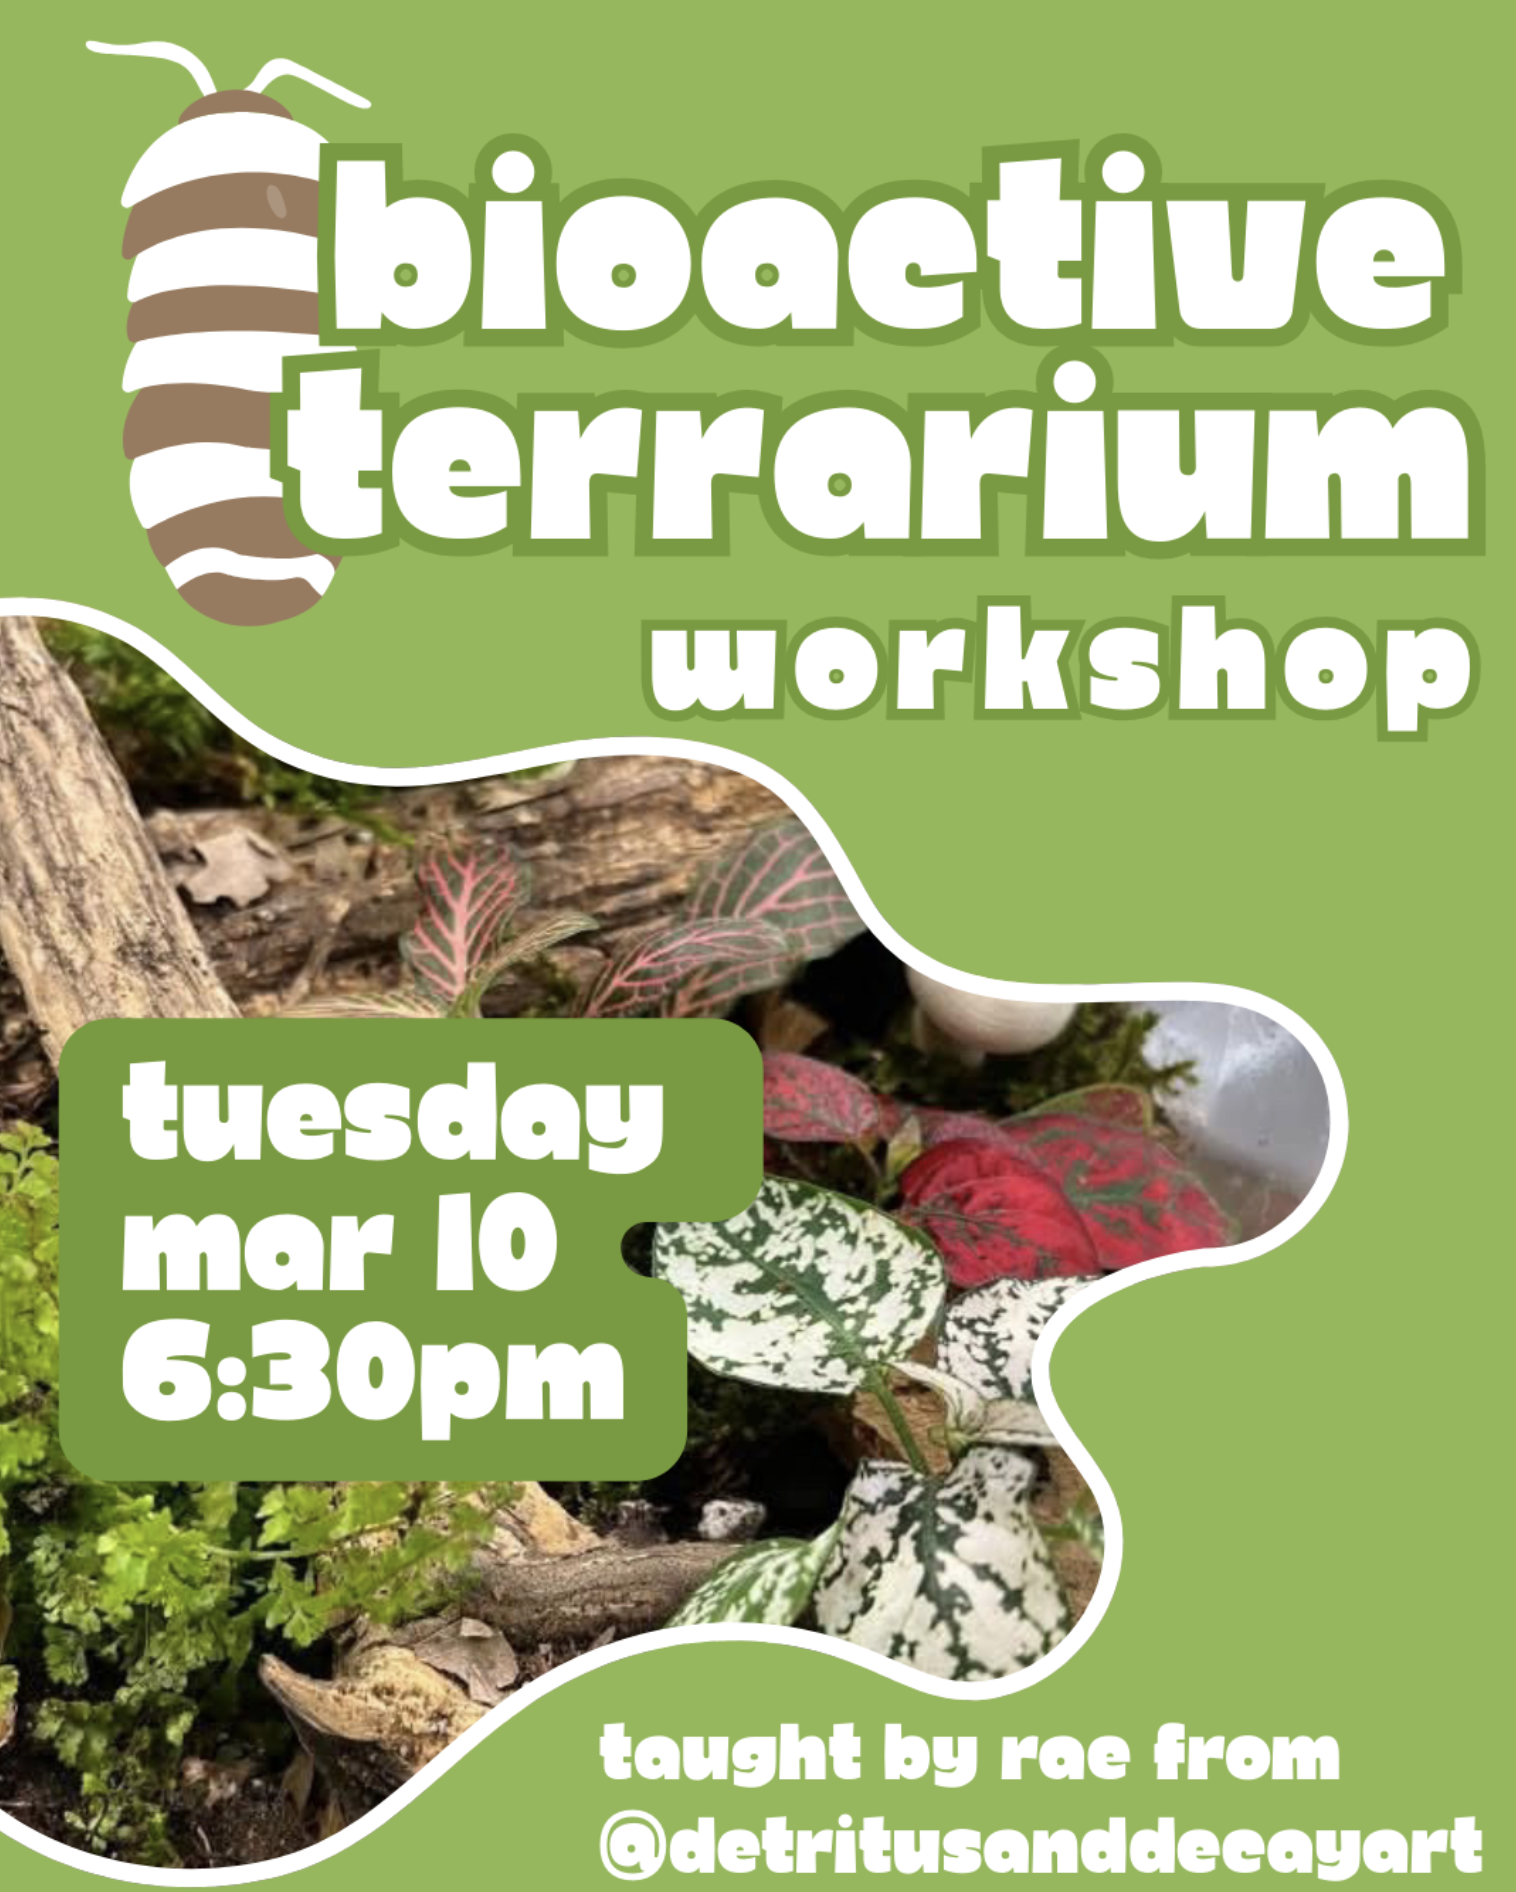
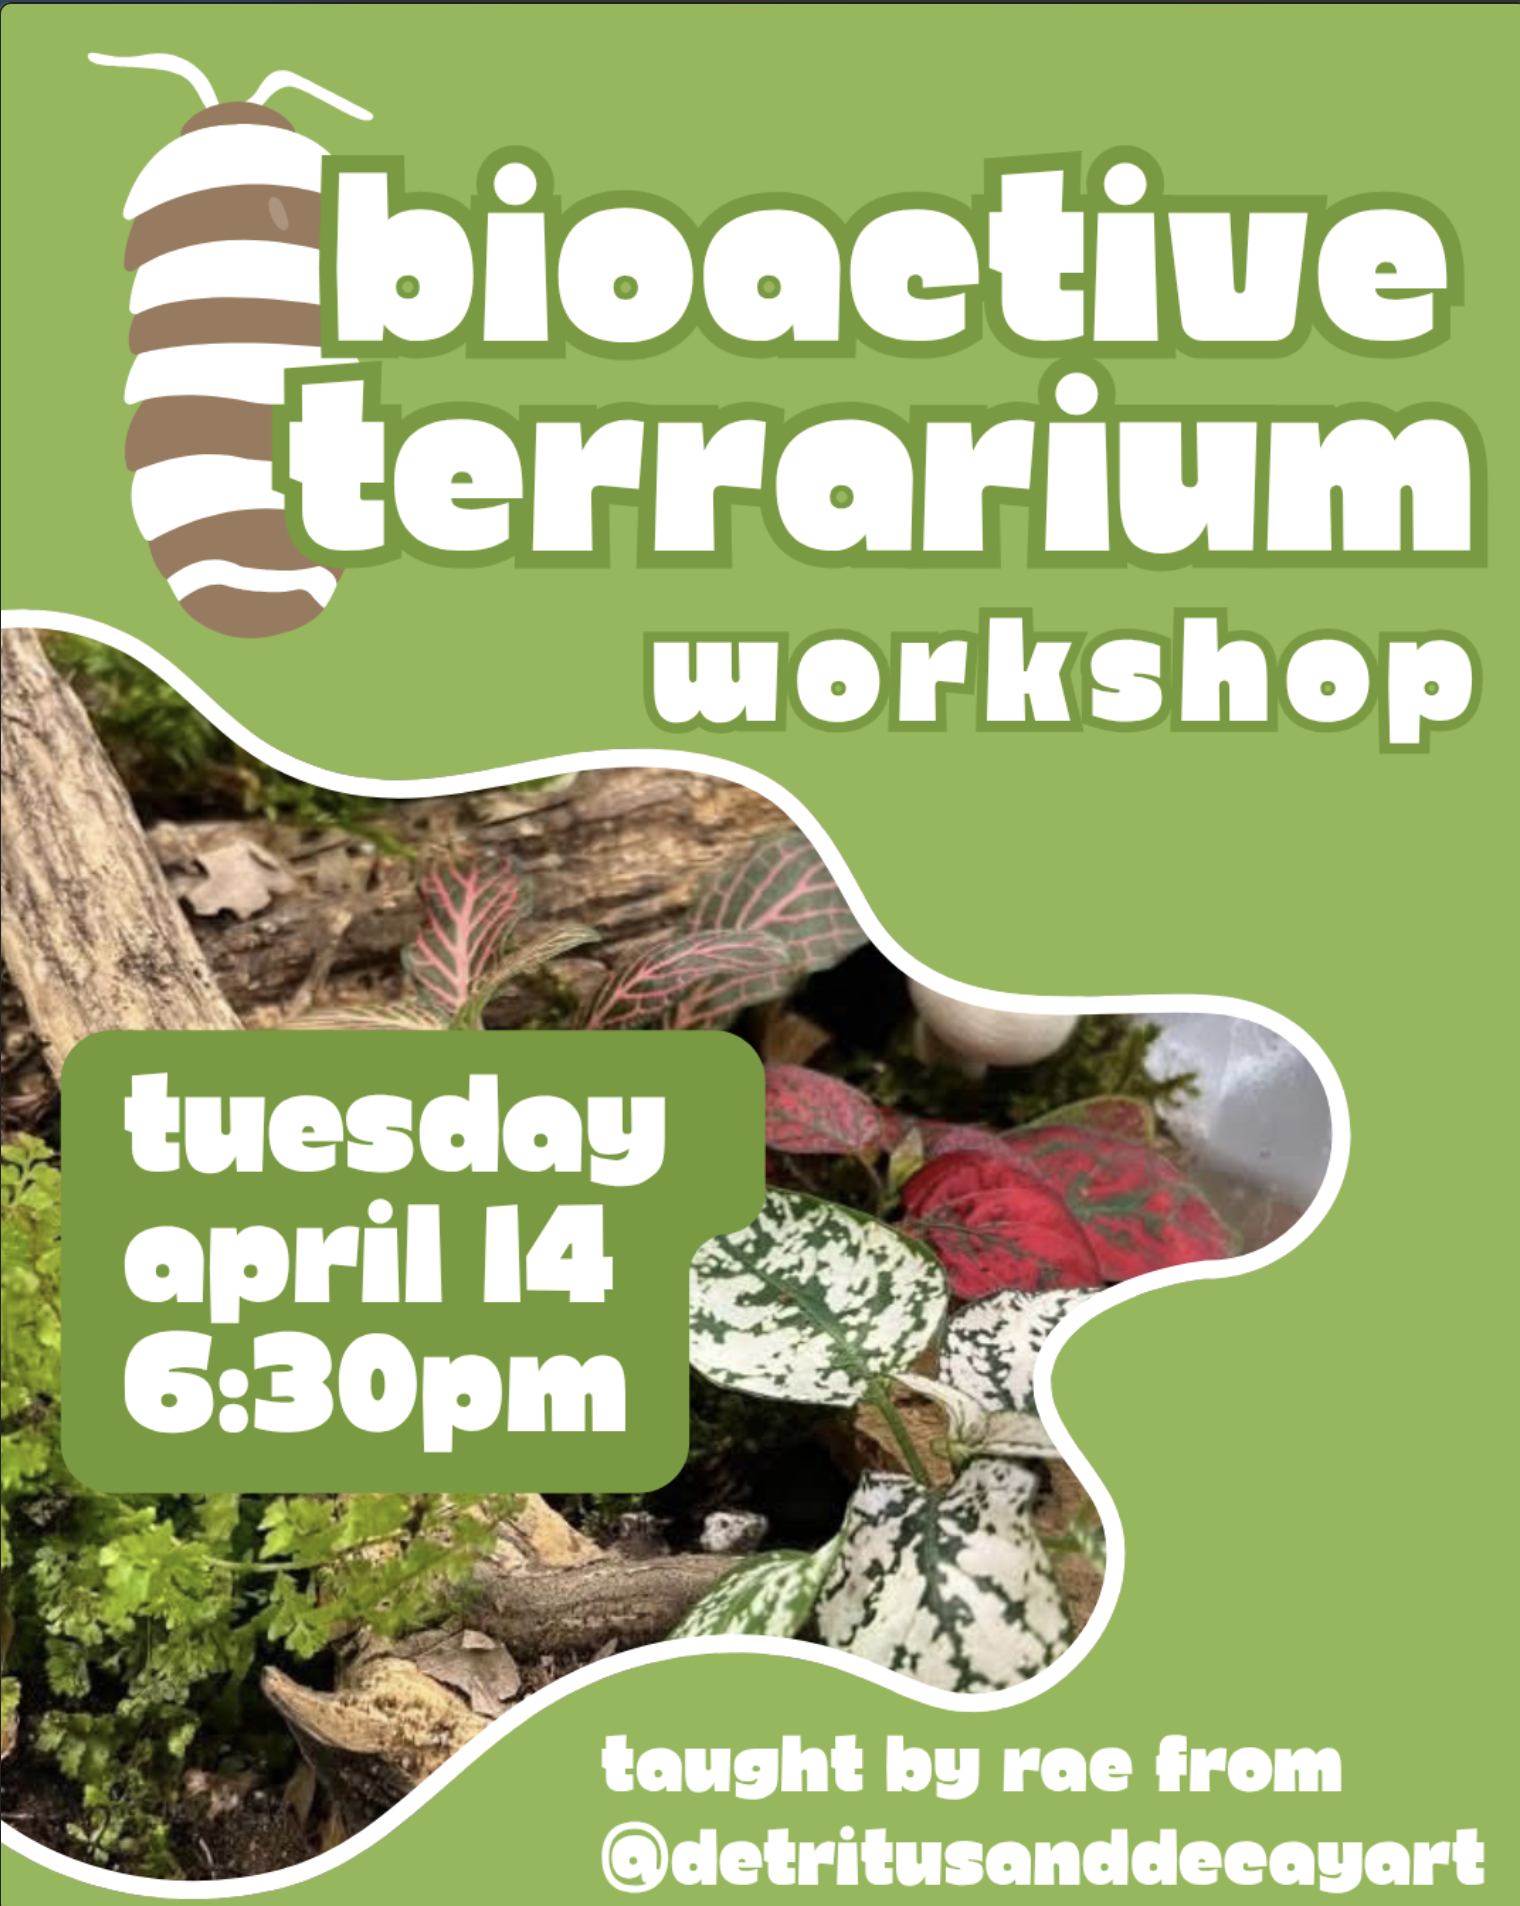
updates bioactive date and links, removes soundbath, updates women history month, etc

diff --git a/index.html b/index.html
@@ -94,7 +94,7 @@
               <img src="./img/bioactive.png" alt="Bioactive Terrarium Workshop flyer" class="eventFlyer" />
               <div class="eventTitle">
                 <h3>Bioactive Terrarium Workshop</h3>
-                <p class="eventDate">Tuesday 3/10 @ 6:30PM</p>
+                <p class="eventDate">Tuesday 4/14 @ 6:30PM</p>
               </div>
             </div>
             <div class="eventDescription">
@@ -122,10 +122,10 @@
                 <p><strong>BYO Glass Vessel Option:</strong> $45</p>
                 <p><strong>All Materials Provided Option:</strong> $55</p>
               </div>
-              <a href="https://buy.stripe.com/4gM4gybbR5fNaiEaeX9IQ0D">
+              <a href="https://buy.stripe.com/8x29AS6VB4bJeyUfzh9IQ0I">
                 <button class="signUpBtn">BYO Glass Vessel: $45</button>
               </a>
-              <a href="https://buy.stripe.com/fZu8wObbRcIfeyUevd9IQ0B">
+              <a href="https://buy.stripe.com/dRmfZg1Bh5fNcqMdr99IQ0H">
                 <button class="signUpBtn">All Materials Provided: $55</button>
               </a>
             </div>
@@ -137,7 +137,9 @@
               <div class="eventTitle">
                 <h3>Women's History Lesson</h3>
                 <p class="eventSubTitle">with Ryan Conroy</p>
-                <p class="eventDate">Wednesday 3/25 @ 7PM<br />Tuesday 3/31 @ 7PM</p>
+                <strike>
+                  <p class="eventDate">Wednesday 3/25 @ 7PM
+                    <br />Tuesday 3/31 @ 7PM</strike> SOLD OUT!</p>
               </div>
             </div>
             <div class="eventDescription">
@@ -156,7 +158,7 @@
             </div>
           </article>
 
-          <article class="event">
+          <!-- <article class="event">
             <div class="eventHeader">
               <img src="./img/soundbath.png" alt="Bioactive Terrarium Workshop flyer" class="eventFlyer" />
               <div class="eventTitle">
@@ -181,7 +183,7 @@
 
             </div>
           </article>
-        </div>
+        </div> -->
       </section>
 
       <section id="services">
